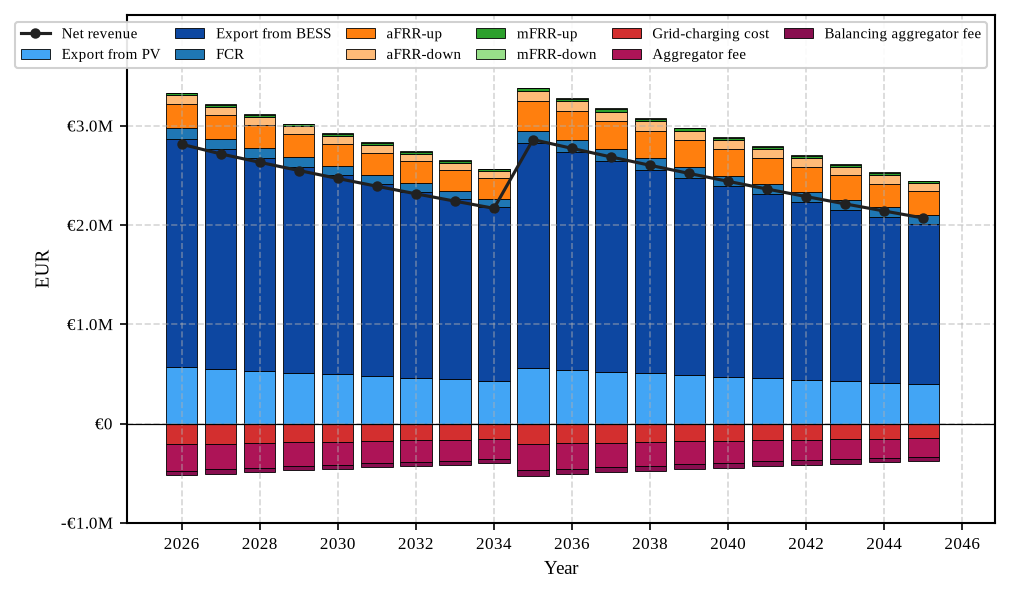
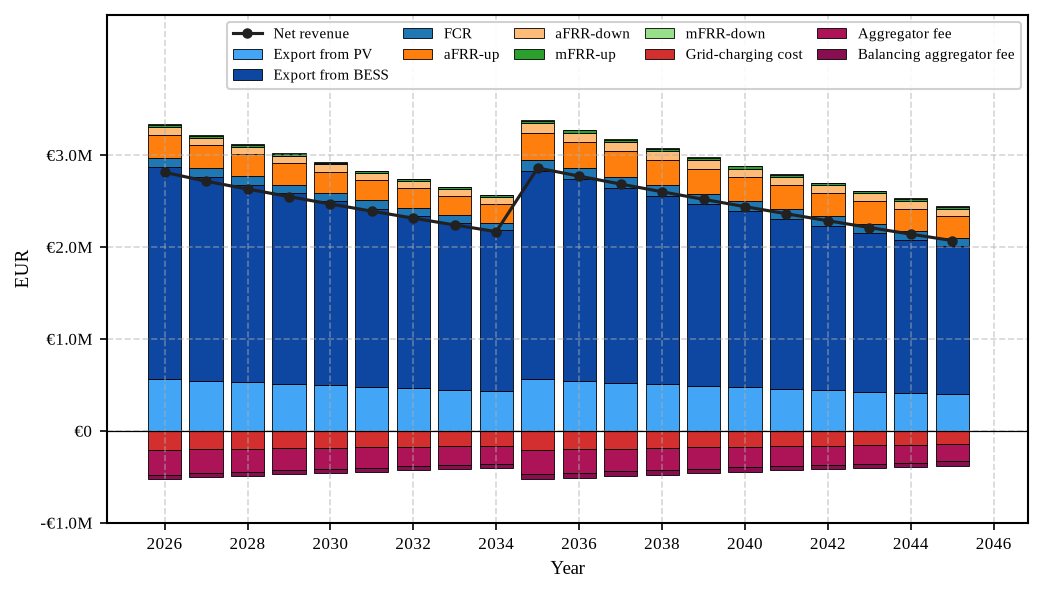
fix(plots): measured legend fit inside the axes for crowded financial legends
With grid charging enabled the merchant revenue stack carries ten
legend entries; the fixed two-row layout rendered five columns wider
than the axes, overflowing the frame. apply_financial_legend now
measures the drawn legend, narrows it column by column until it fits
inside the axes, and then grows the top y-limit until the legend
clears every data artist, mirroring the measured grow-until-clear
loop of the uncertainty family. The merchant revenue stack gallery
asset is regenerated; the other merchant figures reproduce
byte-identically. Full suite: 1475 passed.

diff --git a/pvbess_opt/theme.py b/pvbess_opt/theme.py
@@ -564,10 +564,44 @@ def apply_financial_legend(ax: Any, *, max_rows: int = 2, loc: str = "best") -> 
 
     num_entries = len(ordered_labels)
     ncol = max(1, math.ceil(num_entries / max_rows))
-    ax.legend(
+    legend = ax.legend(
         ordered_handles, ordered_labels,
         loc=loc, framealpha=0.9, ncol=ncol, fontsize=7,
     )
+
+    # Measured fit: with many long entries (e.g. the merchant revenue
+    # stack with both fees and grid charging on) the requested column
+    # count can render the legend wider than the axes, overflowing the
+    # frame.  Narrow it column by column until it fits, then grow the
+    # top y-limit until the drawn legend clears every data artist (the
+    # same closed loop the uncertainty family uses).
+    from .plotting.style import legend_overlaps_data  # runtime: avoids an import cycle
+
+    fig = ax.figure
+    fig.canvas.draw()
+    renderer = fig.canvas.get_renderer()
+    ax_width = ax.get_window_extent(renderer=renderer).width
+    while (
+        ncol > 1
+        and legend.get_window_extent(renderer=renderer).width > ax_width
+    ):
+        ncol -= 1
+        legend = ax.legend(
+            ordered_handles, ordered_labels,
+            loc=loc, framealpha=0.9, ncol=ncol, fontsize=7,
+        )
+        fig.canvas.draw()
+        renderer = fig.canvas.get_renderer()
+    ymin, ymax = ax.get_ylim()
+    span = ymax - ymin
+    if span > 0:
+        for _ in range(12):
+            if not legend_overlaps_data(ax, renderer=renderer):
+                break
+            ymax += 0.08 * span
+            ax.set_ylim(ymin, ymax)
+            fig.canvas.draw()
+            renderer = fig.canvas.get_renderer()
 
 
 def assert_financial_label_color_coverage() -> None: